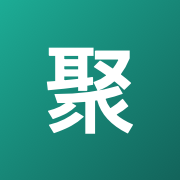
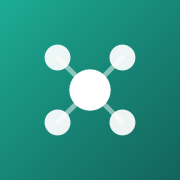
换品牌图标：去掉「聚」字，改用 hub 中心辐射标记
- scripts/generate-icons.swift 重画为四点+辐条汇聚到中心节点（Ju·Hub + 聚）
- 重新生成 public/ 下 192/512/180 三个 PNG
- Hub 首页 hero-icon 同步换成内嵌 SVG，与 PWA 图标同形

Changed region(s): [[0.2222, 0.2222, 0.7778, 0.7778]]

diff --git a/scripts/generate-icons.swift b/scripts/generate-icons.swift
@@ -1,5 +1,6 @@
-// Generates JuHub PWA icons: teal gradient (#14b8a6 -> #0f766e, 135deg) with white "聚".
-// Mirrors the .hero-icon style in src/index.css (corner radius 16/64, font-size 34/64, weight 600).
+// Generates JuHub PWA icons: teal gradient (#14b8a6 -> #0f766e, 135deg) with a
+// white "hub" mark — four friends (dots) on spokes converging to a center node.
+// Encodes the name (Ju·Hub) and 聚 (gather toward a point). No text glyphs.
 // Usage: swift scripts/generate-icons.swift
 import AppKit
 
@@ -25,15 +26,42 @@ func makeIcon(size: CGFloat, cornerRadiusRatio: CGFloat, outputPath: String) {
     // CSS 135deg = top-left to bottom-right; NSGradient angle -45 in flipped-to-unflipped terms
     NSGradient(starting: teal, ending: dark)!.draw(in: rect, angle: -45)
 
-    let fontSize = size * 34.0 / 64.0
-    let font = NSFont(name: "PingFangSC-Semibold", size: fontSize)
-        ?? NSFont.systemFont(ofSize: fontSize, weight: .semibold)
-    let text = NSAttributedString(string: "聚", attributes: [
-        .font: font,
-        .foregroundColor: NSColor.white,
-    ])
-    let textSize = text.size()
-    text.draw(at: NSPoint(x: (size - textSize.width) / 2, y: (size - textSize.height) / 2))
+    // Hub mark geometry (ratios of icon size)
+    let cx = size / 2, cy = size / 2
+    let orbit = size * 0.255   // distance of outer dots from center
+    let centerR = size * 0.115 // central node radius
+    let dotR = size * 0.072    // outer dot radius
+    let spokeW = size * 0.027  // spoke stroke width
+
+    // Four diagonal positions (45°, 135°, 225°, 315°)
+    let k = orbit / 2.0.squareRoot()
+    let dots = [
+        NSPoint(x: cx + k, y: cy + k),
+        NSPoint(x: cx - k, y: cy + k),
+        NSPoint(x: cx - k, y: cy - k),
+        NSPoint(x: cx + k, y: cy - k),
+    ]
+
+    // Spokes: center -> each dot, drawn under the nodes
+    NSColor.white.withAlphaComponent(0.5).setStroke()
+    for d in dots {
+        let path = NSBezierPath()
+        path.lineWidth = spokeW
+        path.lineCapStyle = .round
+        path.move(to: NSPoint(x: cx, y: cy))
+        path.line(to: d)
+        path.stroke()
+    }
+
+    // Outer dots (friends)
+    NSColor.white.withAlphaComponent(0.92).setFill()
+    for d in dots {
+        NSBezierPath(ovalIn: NSRect(x: d.x - dotR, y: d.y - dotR, width: dotR * 2, height: dotR * 2)).fill()
+    }
+
+    // Center node (the hub)
+    NSColor.white.setFill()
+    NSBezierPath(ovalIn: NSRect(x: cx - centerR, y: cy - centerR, width: centerR * 2, height: centerR * 2)).fill()
 
     NSGraphicsContext.restoreGraphicsState()
 

diff --git a/src/Hub.tsx b/src/Hub.tsx
@@ -3,6 +3,28 @@ import { useTheme } from './shared/theme';
 import { TOOLS } from './tools/registry';
 import { navigate } from './router';
 
+/** 品牌标记：朋友（点）经辐条汇聚到中心节点 —— Ju·Hub + 聚。与 public/ 下的 PWA 图标同形。 */
+function HubMark() {
+  const k = 25.5; // 中心到外点的对角偏移（viewBox 100，与图标脚本同比例）
+  const dots = [
+    [50 + k, 50 - k],
+    [50 - k, 50 - k],
+    [50 - k, 50 + k],
+    [50 + k, 50 + k],
+  ];
+  return (
+    <svg viewBox="0 0 100 100" width="60%" height="60%" aria-hidden="true">
+      {dots.map(([x, y], i) => (
+        <line key={i} x1="50" y1="50" x2={x} y2={y} stroke="#fff" strokeWidth="2.7" strokeLinecap="round" opacity="0.5" />
+      ))}
+      {dots.map(([x, y], i) => (
+        <circle key={i} cx={x} cy={y} r="7.2" fill="#fff" opacity="0.92" />
+      ))}
+      <circle cx="50" cy="50" r="11.5" fill="#fff" />
+    </svg>
+  );
+}
+
 /** 工具中心首页：卡片来自工具注册表 */
 export function Hub() {
   const { t, lang, setLang } = useI18n();
@@ -12,7 +34,9 @@ export function Hub() {
   return (
     <div className="page">
       <header className="page-header">
-        <div className="hero-icon">聚</div>
+        <div className="hero-icon">
+          <HubMark />
+        </div>
         <h1 className="logo">JuHub</h1>
         <p className="tagline">{t.tagline}</p>
       </header>